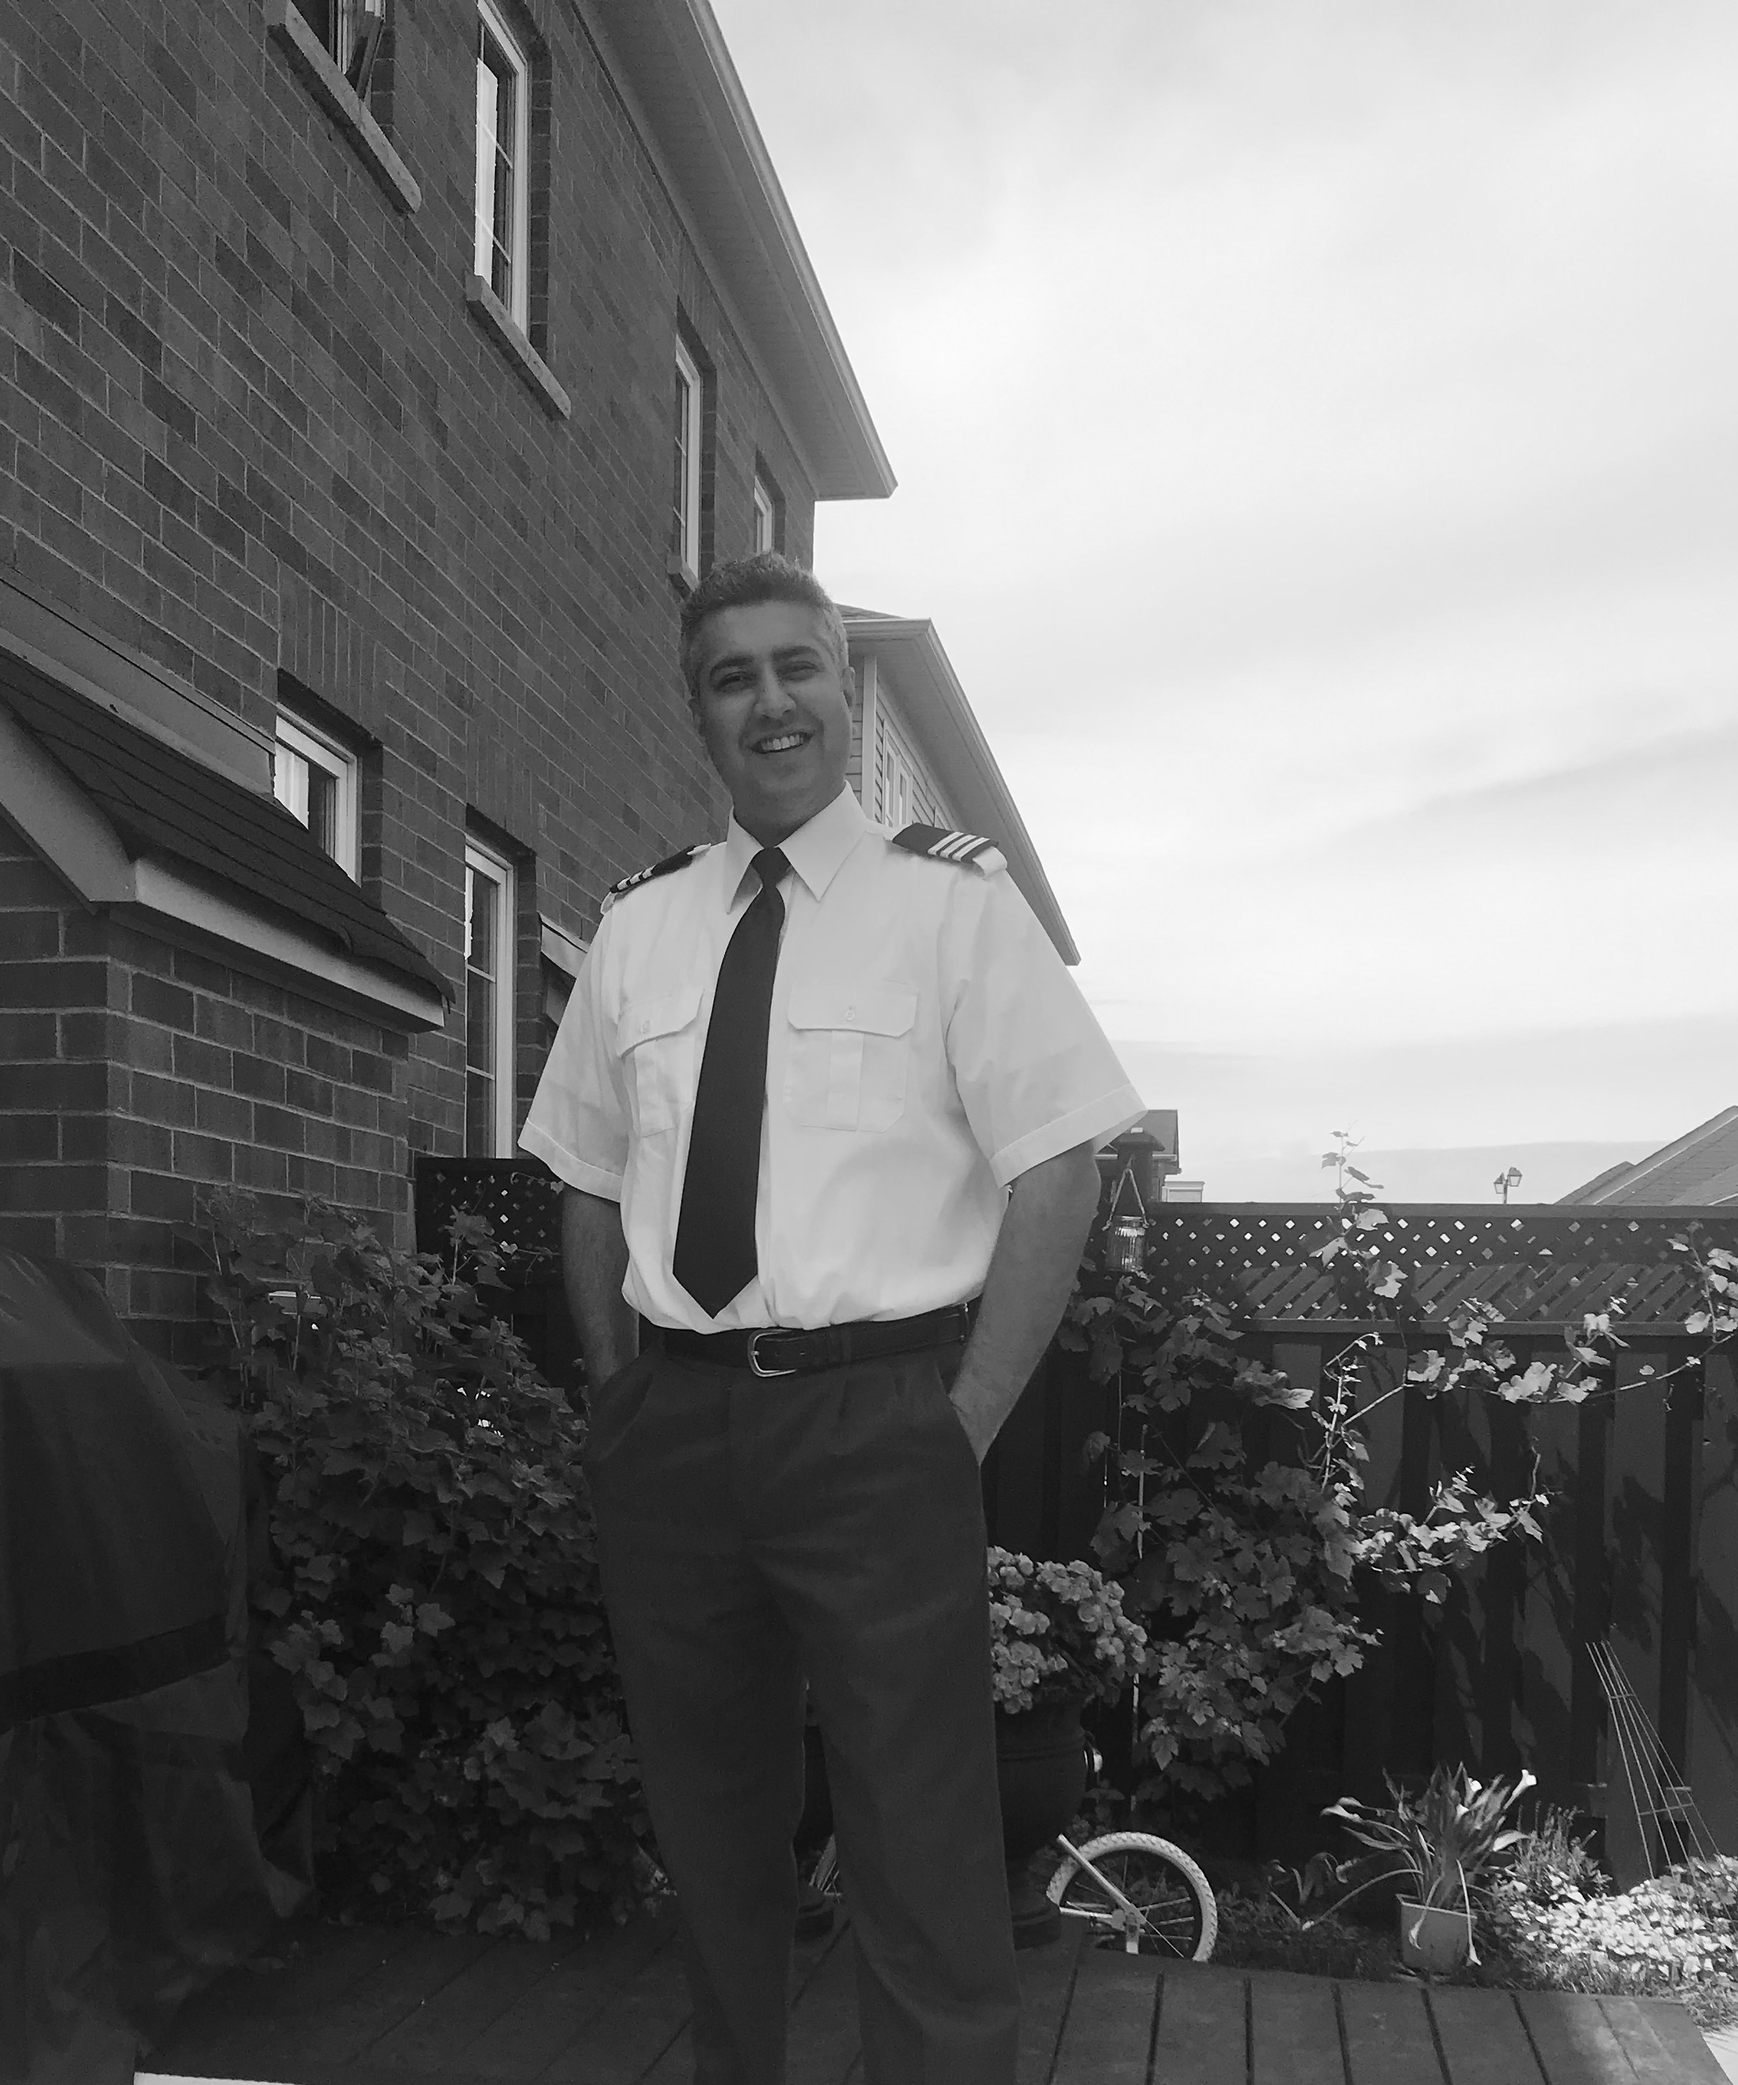
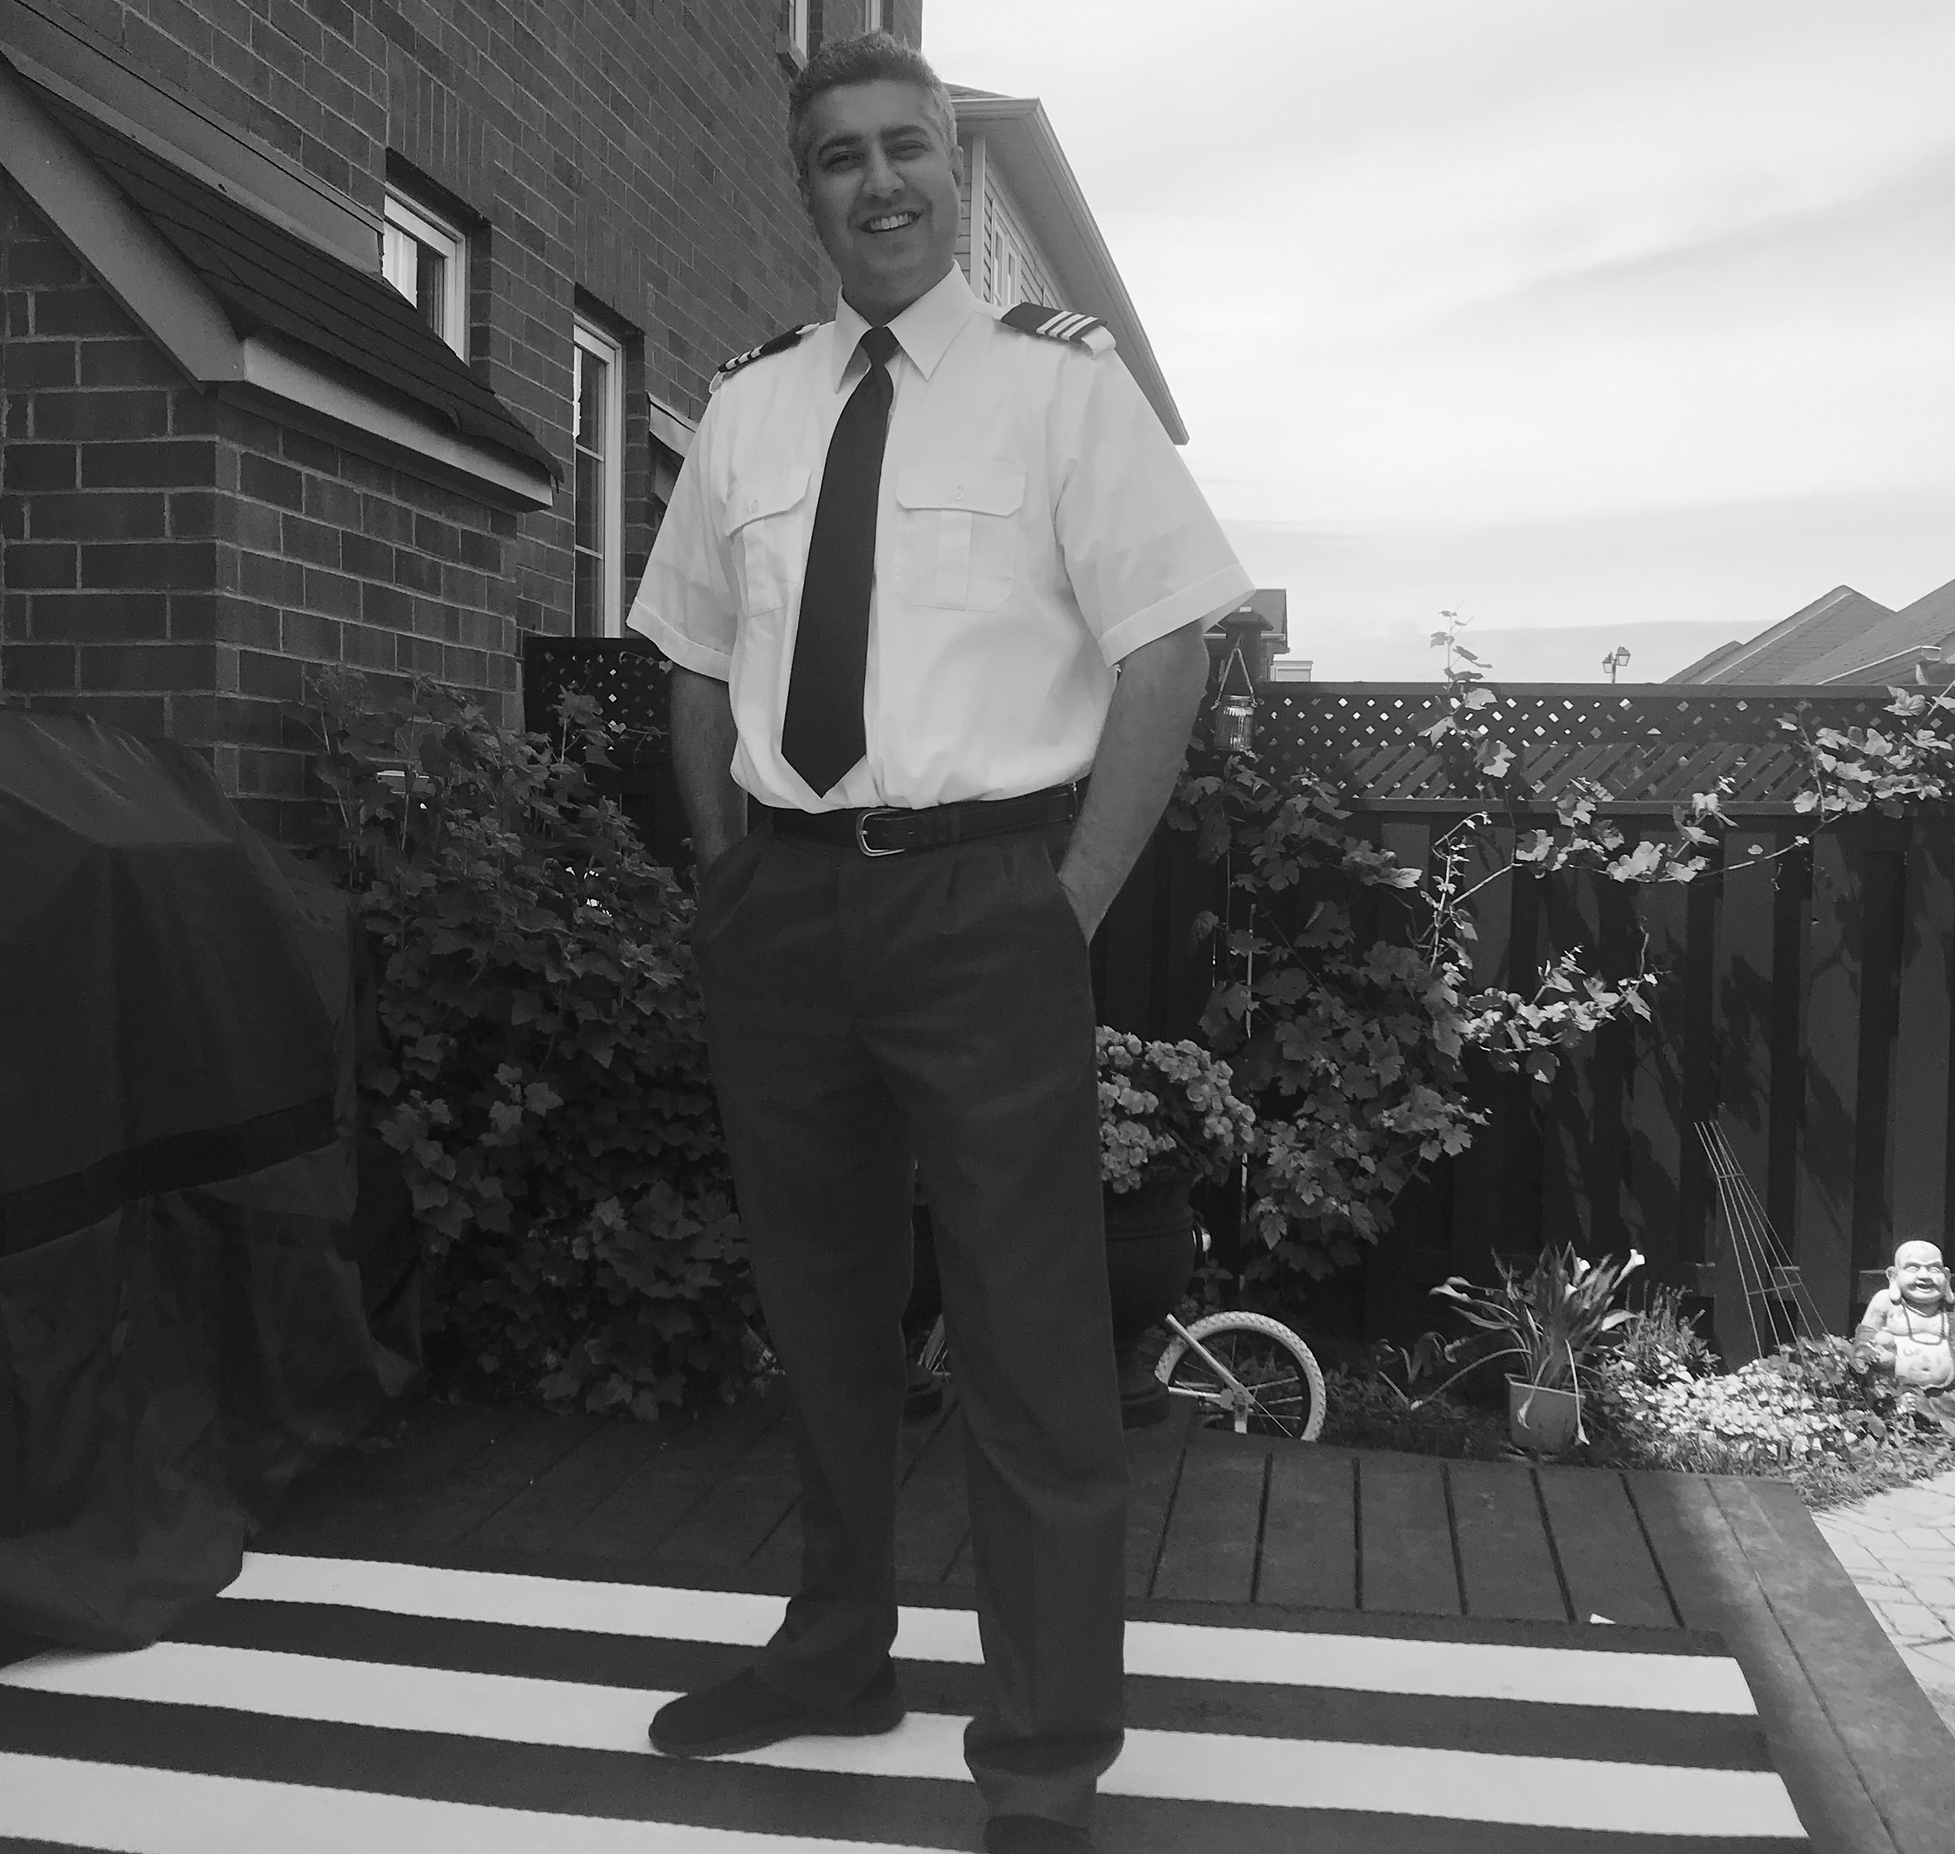
Adjust Ash photo crop to show more of him and less sky

diff --git a/client/src/pages/About.jsx b/client/src/pages/About.jsx
@@ -17,7 +17,7 @@ export default function About() {
           <img
             src="/about-ash.jpg"
             alt="Ash in pilot uniform"
-            style={{ width: '100%', height: 280, objectFit: 'cover', objectPosition: 'center 15%', display: 'block' }}
+            style={{ width: '100%', height: 280, objectFit: 'cover', objectPosition: 'center 30%', display: 'block' }}
           />
           <div style={{ textAlign: 'center', fontSize: '0.78rem', color: 'var(--text2)', opacity: 0.5, padding: '8px 0 10px' }}>Ash — Certified Flight Instructor</div>
         </div>
